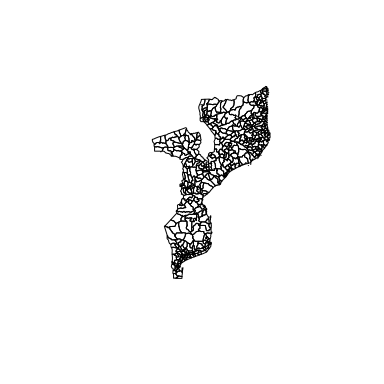
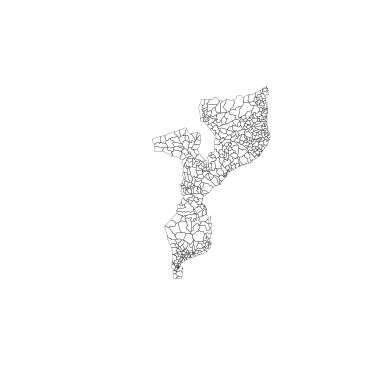
updated

Changed region(s): [[0.375, 0.2188, 0.7188, 0.75]]

diff --git a/README.html b/README.html
@@ -57,8 +57,8 @@ body {
[1 lines of base64/hex data omitted]
 <div class="sourceCode"><pre class="sourceCode r"><code class="sourceCode r">
 <span class="co"># Create a map of Mozambique at the tertiary administrative level (posto administrativo)</span>
-<span class="kw">plot</span>(bohemia<span class="op">::</span>mozambique3)</code></pre></div>
[1 lines of base64/hex data omitted]
+<span class="kw">plot</span>(bohemia<span class="op">::</span>mozambique3, <span class="dt">lwd =</span> <span class="fl">0.2</span>)</code></pre></div>
[1 lines of base64/hex data omitted]
 <div class="sourceCode"><pre class="sourceCode r"><code class="sourceCode r">
 <span class="co"># Create a map of Tanzania at the second administrative level (district)</span>
 <span class="kw">plot</span>(bohemia<span class="op">::</span>tanzania2)</code></pre></div>
@@ -175,31 +175,6 @@ cols &lt;-<span class="st"> </span>cols2[ids]
 buffers &lt;-<span class="st"> </span><span class="kw">create_buffers</span>(<span class="dt">shp =</span> boundaries,
                                    <span class="dt">meters =</span> <span class="dv">-5000</span>,
                                    <span class="dt">ids =</span> ids)
-<span class="co">#&gt; Warning in gpclibPermit(): support for gpclib will be withdrawn from</span>
-<span class="co">#&gt; maptools at the next major release</span>
-<span class="co">#&gt; Warning in `[&lt;-`(`*tmp*`, i, value = gpc): implicit list embedding of S4</span>
-<span class="co">#&gt; objects is deprecated</span>
-
-<span class="co">#&gt; Warning in `[&lt;-`(`*tmp*`, i, value = gpc): implicit list embedding of S4</span>
-<span class="co">#&gt; objects is deprecated</span>
-
-<span class="co">#&gt; Warning in `[&lt;-`(`*tmp*`, i, value = gpc): implicit list embedding of S4</span>
-<span class="co">#&gt; objects is deprecated</span>
-
-<span class="co">#&gt; Warning in `[&lt;-`(`*tmp*`, i, value = gpc): implicit list embedding of S4</span>
-<span class="co">#&gt; objects is deprecated</span>
-
-<span class="co">#&gt; Warning in `[&lt;-`(`*tmp*`, i, value = gpc): implicit list embedding of S4</span>
-<span class="co">#&gt; objects is deprecated</span>
-
-<span class="co">#&gt; Warning in `[&lt;-`(`*tmp*`, i, value = gpc): implicit list embedding of S4</span>
-<span class="co">#&gt; objects is deprecated</span>
-
-<span class="co">#&gt; Warning in `[&lt;-`(`*tmp*`, i, value = gpc): implicit list embedding of S4</span>
-<span class="co">#&gt; objects is deprecated</span>
-
-<span class="co">#&gt; Warning in `[&lt;-`(`*tmp*`, i, value = gpc): implicit list embedding of S4</span>
-<span class="co">#&gt; objects is deprecated</span>
 <span class="kw">plot</span>(fake<span class="op">$</span>x, fake<span class="op">$</span>y, <span class="dt">col =</span> <span class="st">'white'</span>, <span class="dt">pch =</span> <span class="dv">16</span>, <span class="dt">cex =</span> <span class="fl">0.5</span>)
 <span class="co"># plot(boundaries, add = T, col = adjustcolor(cols, alpha.f = 0.8))</span>
 <span class="kw">plot</span>(buffers, <span class="dt">add =</span> T, <span class="dt">col =</span> <span class="kw">adjustcolor</span>(cols2, <span class="dt">alpha.f =</span> <span class="fl">0.5</span>))

diff --git a/README.md b/README.md
@@ -57,7 +57,7 @@ plot(bohemia::mozambique2)
 ``` r
 
 # Create a map of Mozambique at the tertiary administrative level (posto administrativo)
-plot(bohemia::mozambique3)
+plot(bohemia::mozambique3, lwd = 0.2)
 ```
 
 ![](README-unnamed-chunk-2-2.png)
@@ -263,31 +263,6 @@ cols <- cols2[ids]
 buffers <- create_buffers(shp = boundaries,
                                    meters = -5000,
                                    ids = ids)
-#> Warning in gpclibPermit(): support for gpclib will be withdrawn from
-#> maptools at the next major release
-#> Warning in `[<-`(`*tmp*`, i, value = gpc): implicit list embedding of S4
-#> objects is deprecated
-
-#> Warning in `[<-`(`*tmp*`, i, value = gpc): implicit list embedding of S4
-#> objects is deprecated
-
-#> Warning in `[<-`(`*tmp*`, i, value = gpc): implicit list embedding of S4
-#> objects is deprecated
-
-#> Warning in `[<-`(`*tmp*`, i, value = gpc): implicit list embedding of S4
-#> objects is deprecated
-
-#> Warning in `[<-`(`*tmp*`, i, value = gpc): implicit list embedding of S4
-#> objects is deprecated
-
-#> Warning in `[<-`(`*tmp*`, i, value = gpc): implicit list embedding of S4
-#> objects is deprecated
-
-#> Warning in `[<-`(`*tmp*`, i, value = gpc): implicit list embedding of S4
-#> objects is deprecated
-
-#> Warning in `[<-`(`*tmp*`, i, value = gpc): implicit list embedding of S4
-#> objects is deprecated
 plot(fake$x, fake$y, col = 'white', pch = 16, cex = 0.5)
 # plot(boundaries, add = T, col = adjustcolor(cols, alpha.f = 0.8))
 plot(buffers, add = T, col = adjustcolor(cols2, alpha.f = 0.5))
